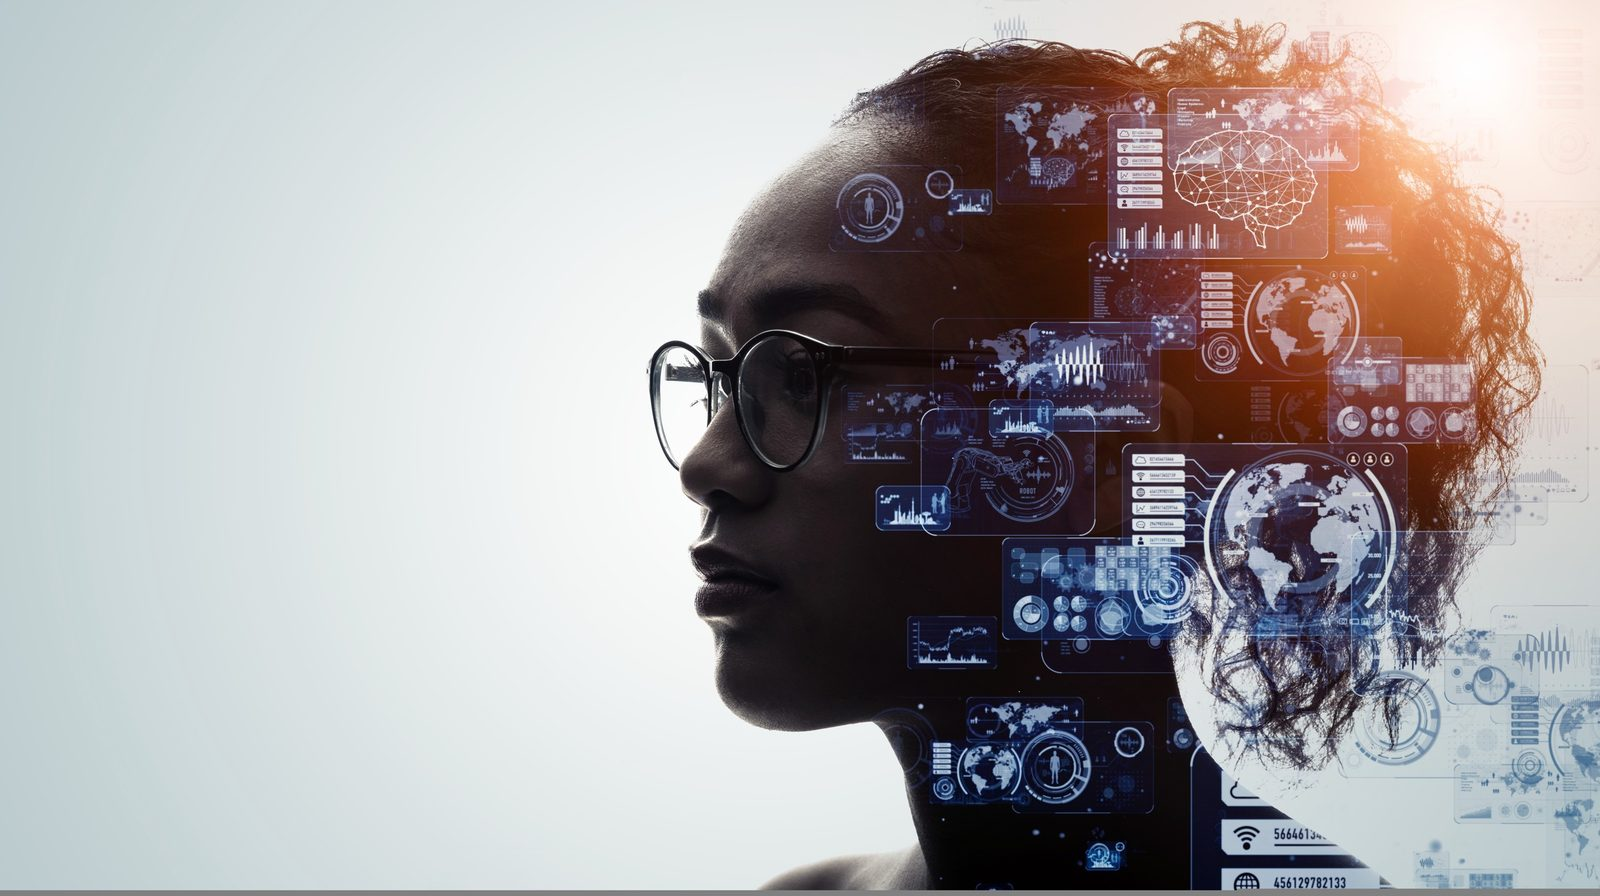
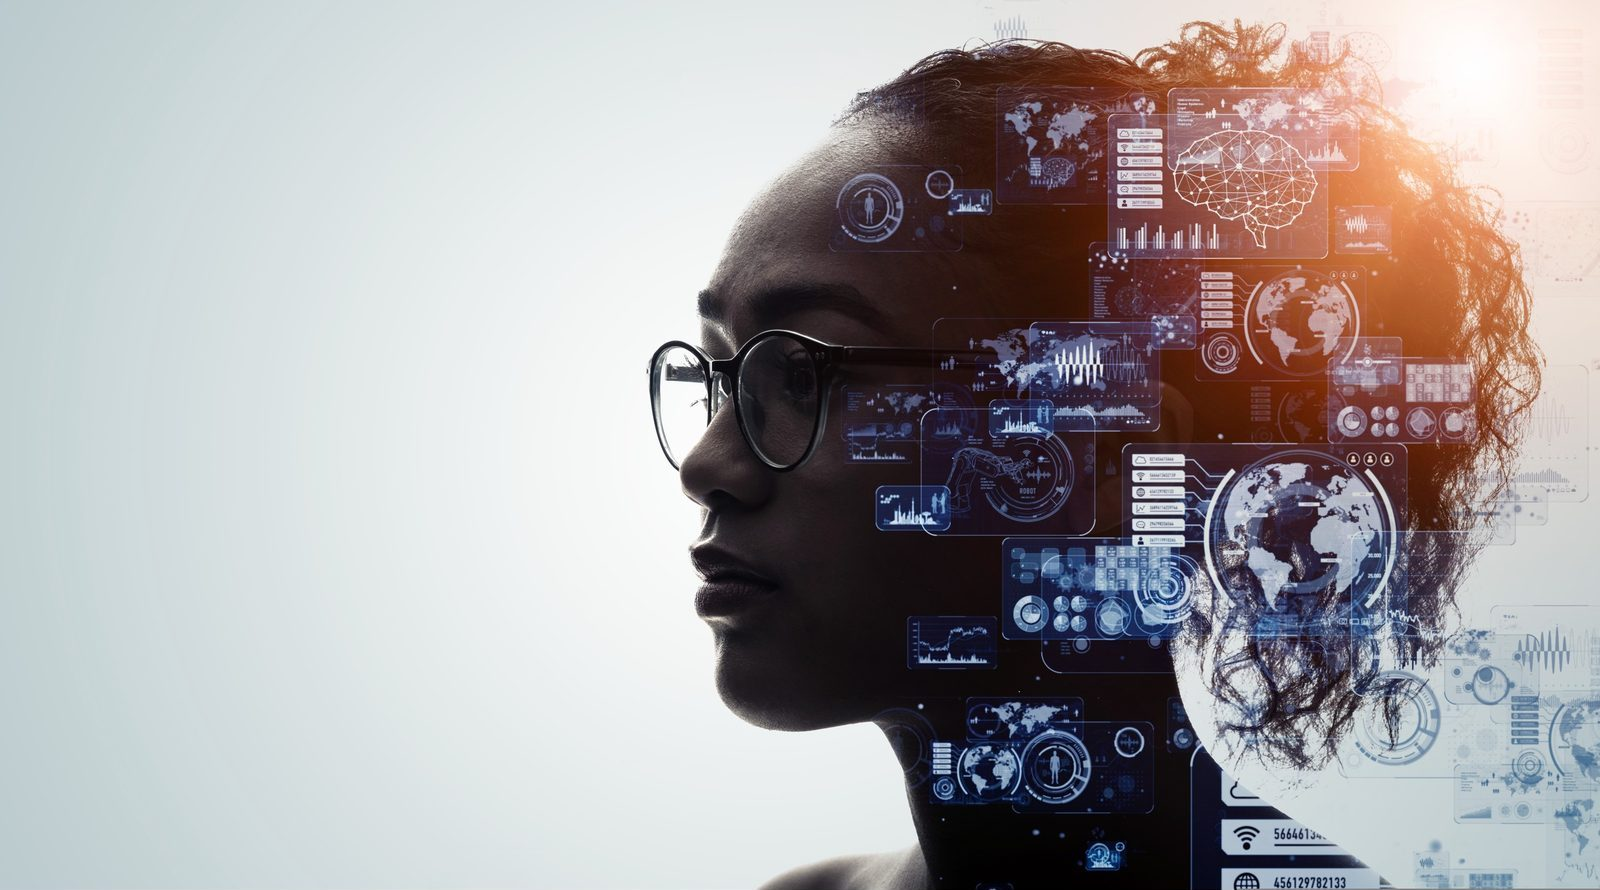
Move runway visual to philosophy, drop top-page service cards
Claude-Session: https://claude.ai/code/session_0118MPF54EN1odyKhaBA8mef

diff --git a/index.html b/index.html
@@ -243,6 +243,7 @@ header.site .gnav a::after{background:#FFFFFF !important}
 <div style="flex: 1 1 240px">
 <p class="eyebrow" style="margin: 0; font-size: 12px; font-weight: 700; letter-spacing: 0.32em; color: #5A5A5A">PHILOSOPHY</p>
 <h2 style="margin: 16px 0 0; font-family: 'Shippori Mincho', serif; font-weight: 500; font-size: 32px; line-height: 1.6">企業理念</h2>
+<div class="photo" style="margin: 32px 22px 22px 0"><div style="position: relative; z-index: 1; overflow: hidden; background: #EEEEEA"><img alt="スポットライトを浴びてランウェイを歩くシルエット" loading="lazy" src="assets/runway.jpg" style="display: block; width: 100%; aspect-ratio: 4 / 3; height: auto; object-fit: cover; object-position: center 62%"/></div></div>
 </div>
 <div style="flex: 999 1 520px; min-width: 0; font-size: 15px; line-height: 2; display: flex; flex-direction: column; gap: 20px">
 <p style="margin: 0; font-family: 'Shippori Mincho', serif; font-size: clamp(21px, 5.6vw, 26px); line-height: 1.7; letter-spacing: 0.08em"><span style="display: inline-block">DOTをつなぎ、</span><span style="display: inline-block">未知なる道を創る</span></p>
@@ -251,36 +252,6 @@ header.site .gnav a::after{background:#FFFFFF !important}
 <div style="display: flex; flex-wrap: wrap; gap: 12px">
 <a class="btn-o" href="concept.html" style="display: inline-flex; align-items: center; min-height: 48px; padding: 0 32px; border: 1px solid #111111; text-decoration: none; font-size: 13px; font-weight: 500; letter-spacing: 0.2em">CONCEPT →</a>
 </div>
-</div>
-</section>
-<section id="service" style="max-width: 1280px; margin: 0 auto; padding: 0 24px clamp(72px, 10vw, 128px)">
-<p class="eyebrow" style="margin: 0; font-size: 12px; font-weight: 700; letter-spacing: 0.32em; color: #5A5A5A">SERVICE</p>
-<h2 style="margin: 16px 0 0; font-family: 'Shippori Mincho', serif; font-weight: 500; font-size: clamp(24px, 6vw, 32px); line-height: 1.6"><span style="display: inline-block">つくる、届ける、</span><span style="display: inline-block">育てる。</span></h2>
-<div style="margin-top: 40px; display: grid; grid-template-columns: repeat(auto-fit, minmax(260px, 1fr)); gap: 24px">
-<a class="card" href="concept.html#service" style="display: block; text-decoration: none; color: #111111; border: 1px solid #E4E4E0; background: #FFFFFF">
-<div style="overflow: hidden; background: #EEEEEA"><img alt="BRAND IDENTITYと記された白い本" loading="lazy" src="assets/brand-identity.jpg" style="display: block; width: 100%; aspect-ratio: 3 / 2; height: auto; object-fit: cover; object-position: 18% center"/></div>
-<div style="padding: 20px 22px 24px">
-<p class="eyebrow" style="margin: 0; font-size: 11px; font-weight: 700; letter-spacing: 0.3em; color: #5A5A5A">01 — BRAND</p>
-<p style="margin: 10px 0 0; font-family: 'Shippori Mincho', serif; font-size: 20px; line-height: 1.6"><span><span class="w">ブランドを創る</span></span></p>
-</div>
-</a>
-<a class="card" href="concept.html#service" style="display: block; text-decoration: none; color: #111111; border: 1px solid #E4E4E0; background: #FFFFFF">
-<div style="overflow: hidden; background: #EEEEEA"><img alt="スポットライトを浴びてランウェイを歩くシルエット" loading="lazy" src="assets/runway.jpg" style="display: block; width: 100%; aspect-ratio: 3 / 2; height: auto; object-fit: cover; object-position: center 60%"/></div>
-<div style="padding: 20px 22px 24px">
-<p class="eyebrow" style="margin: 0; font-size: 11px; font-weight: 700; letter-spacing: 0.3em; color: #5A5A5A">02 — EXPERIENCE</p>
-<p style="margin: 10px 0 0; font-family: 'Shippori Mincho', serif; font-size: 20px; line-height: 1.6"><span><span class="w">ブランド体験を届ける</span></span></p>
-</div>
-</a>
-<a class="card" href="concept.html#service" style="display: block; text-decoration: none; color: #111111; border: 1px solid #E4E4E0; background: #FFFFFF">
-<div style="overflow: hidden; background: #EEEEEA"><img alt="重ねて開かれた楽譜" loading="lazy" src="assets/score.jpg" style="display: block; width: 100%; aspect-ratio: 3 / 2; height: auto; object-fit: cover; object-position: center"/></div>
-<div style="padding: 20px 22px 24px">
-<p class="eyebrow" style="margin: 0; font-size: 11px; font-weight: 700; letter-spacing: 0.3em; color: #5A5A5A">03 — ORGANIZATION</p>
-<p style="margin: 10px 0 0; font-family: 'Shippori Mincho', serif; font-size: 20px; line-height: 1.6"><span style="display: inline-block">ブランドで成長する</span><span style="display: inline-block">組織をつくる</span></p>
-</div>
-</a>
-</div>
-<div style="margin-top: 32px">
-<a class="btn-o" href="concept.html#service" style="display: inline-flex; align-items: center; min-height: 48px; padding: 0 32px; border: 1px solid #111111; text-decoration: none; font-size: 13px; font-weight: 500; letter-spacing: 0.2em">SERVICE →</a>
 </div>
 </section>
 <section aria-label="MIDOT" style="max-width: 1280px; margin: 0 auto; padding: 0 24px">

diff --git a/concept.html b/concept.html
@@ -88,11 +88,11 @@ header.site .gnav a::after{background:#FFFFFF !important}
 <div style="flex: 1 1 240px">
 <p class="eyebrow" style="margin: 0; font-size: 12px; font-weight: 700; letter-spacing: 0.32em; color: #5A5A5A">PHILOSOPHY</p>
 <h2 style="margin: 16px 0 0; font-family: 'Shippori Mincho', serif; font-weight: 500; font-size: 28px; line-height: 1.6">企業理念</h2>
+<div class="photo" style="margin: 32px 22px 22px 0"><div style="position: relative; z-index: 1; overflow: hidden; background: #EEEEEA"><img alt="スポットライトを浴びてランウェイを歩くシルエット" loading="lazy" src="assets/runway.jpg" style="display: block; width: 100%; aspect-ratio: 4 / 3; height: auto; object-fit: cover; object-position: center 62%"/></div></div>
 </div>
 <div style="flex: 999 1 520px; min-width: 0; font-size: 15px; line-height: 2.1; display: flex; flex-direction: column; gap: 20px">
 <p style="margin: 0; font-family: 'Shippori Mincho', serif; font-size: clamp(19px, 5vw, 22px); line-height: 1.9"><span style="display: inline-block">DOTをつなぎ、</span><span style="display: inline-block">未知なる道を創る</span></p>
 <div style="padding: 24px 0; border-top: 1px solid #DDDDD8; border-bottom: 1px solid #DDDDD8">
-<div style="overflow: hidden; background: #EEEEEA; margin-bottom: 24px"><img alt="人の横顔とデータのビジュアルが重なるイメージ" loading="lazy" src="assets/art-science.jpg" style="display: block; width: 100%; aspect-ratio: 16 / 9; height: auto; object-fit: cover; object-position: 68% center"/></div>
 <p style="margin: 0; font-size: 12px; font-weight: 700; letter-spacing: 0.28em; color: #5A5A5A">ART &amp; SCIENCE</p>
 <p style="margin: 10px 0 0; font-family: 'Shippori Mincho', serif; font-size: 17px; line-height: 2"><span style="display: inline-block">データには、過去しかない。</span><span style="display: inline-block">データの裏には必ず心理があり、</span><span style="display: inline-block">データの先に、未来がある。</span></p>
 <p style="margin: 12px 0 0">ART（感性・想像力・センス）とSCIENCE（ロジック・分析）。その両方をバランスよく行き来することが、イノベーションを生み出すと私たちは考えています。人間にしかない想像力と、深く掘り下げる探求心で、点と点をつないでいきます。</p>
@@ -136,7 +136,7 @@ header.site .gnav a::after{background:#FFFFFF !important}
 </section>
 <section id="service" style="max-width: 1280px; margin: 0 auto; padding: clamp(72px, 10vw, 112px) 24px">
 <p class="eyebrow" style="margin: 0; font-size: 12px; font-weight: 700; letter-spacing: 0.32em; color: #5A5A5A">SERVICE</p>
-<h2 style="margin: 16px 0 0; font-family: 'Shippori Mincho', serif; font-weight: 500; font-size: clamp(24px, 6vw, 32px); line-height: 1.6"><span style="display: inline-block">つくる、届ける、</span><span style="display: inline-block">育てる。</span></h2>
+<h2 style="margin: 16px 0 0; font-family: 'Shippori Mincho', serif; font-weight: 500; font-size: clamp(24px, 6vw, 32px); line-height: 1.6"><span style="display: inline-block">創る、届ける、</span><span style="display: inline-block">育てる。</span></h2>
 <div style="margin-top: 48px; display: grid; grid-template-columns: repeat(auto-fit, minmax(300px, 1fr)); gap: 48px 40px">
 <article style="border-top: 2px solid #111111; padding-top: 28px">
 <div style="overflow: hidden; background: #EEEEEA; margin-bottom: 28px"><img alt="BRAND IDENTITYと記された白い本" loading="lazy" src="assets/brand-identity.jpg" style="display: block; width: 100%; aspect-ratio: 3 / 2; height: auto; object-fit: cover; object-position: 18% center"/></div>
@@ -148,7 +148,7 @@ header.site .gnav a::after{background:#FFFFFF !important}
 </div>
 </article>
 <article style="border-top: 2px solid #111111; padding-top: 28px">
-<div style="overflow: hidden; background: #EEEEEA; margin-bottom: 28px"><img alt="スポットライトを浴びてランウェイを歩くシルエット" loading="lazy" src="assets/runway.jpg" style="display: block; width: 100%; aspect-ratio: 3 / 2; height: auto; object-fit: cover; object-position: center 60%"/></div>
+<div style="overflow: hidden; background: #EEEEEA; margin-bottom: 28px"><img alt="人の横顔とデータのビジュアルが重なるイメージ" loading="lazy" src="assets/art-science.jpg" style="display: block; width: 100%; aspect-ratio: 3 / 2; height: auto; object-fit: cover; object-position: 62% center"/></div>
 <p class="eyebrow" style="margin: 0; font-size: 12px; font-weight: 700; letter-spacing: 0.32em; color: #5A5A5A">02 — EXPERIENCE</p>
 <h3 style="margin: 12px 0 0; font-family: 'Shippori Mincho', serif; font-weight: 500; font-size: 24px; line-height: 1.6"><span><span class="w">ブランド体験を届ける</span></span></h3>
 <div style="margin-top: 18px; font-size: 15px; line-height: 2.1; display: flex; flex-direction: column; gap: 14px">
